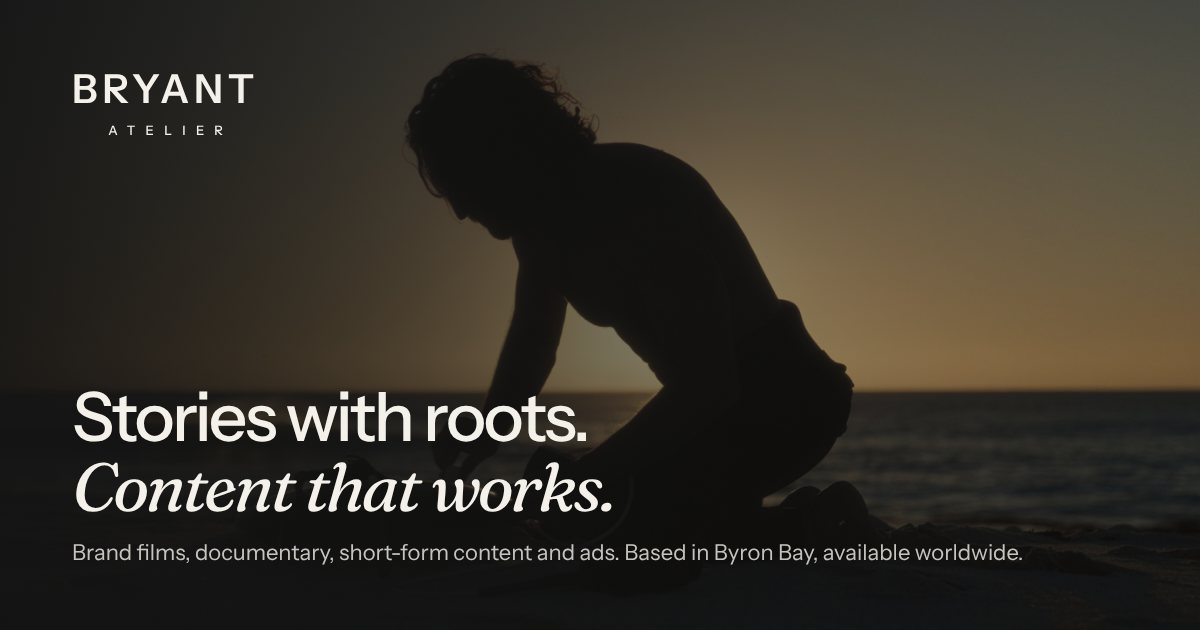
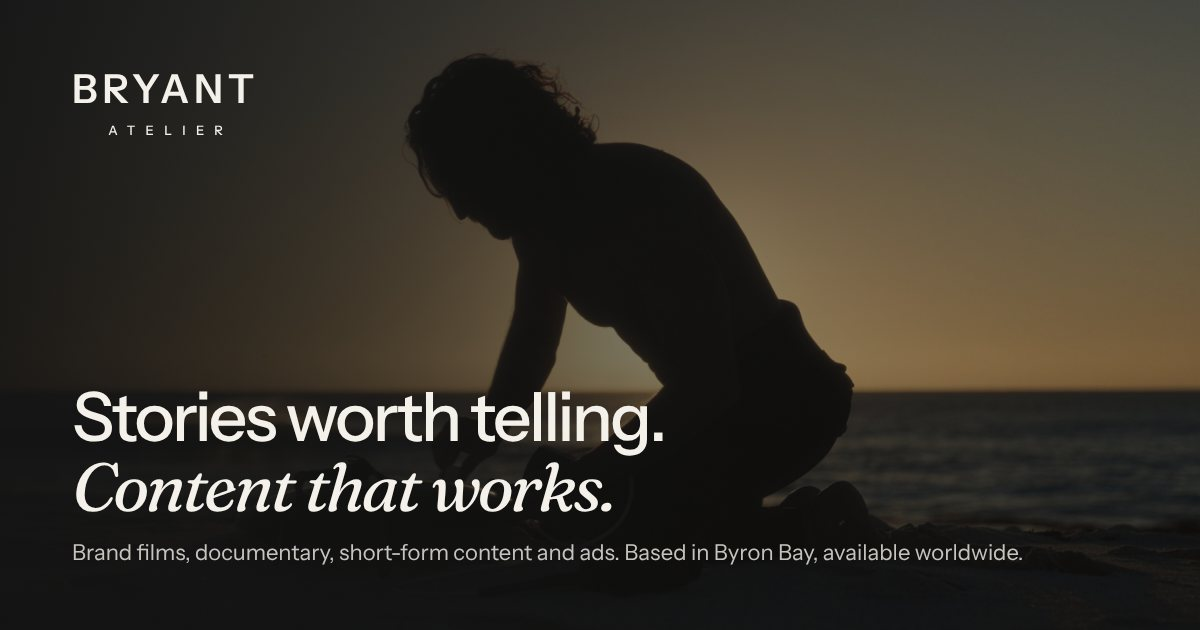
Headline: 'Stories worth telling. Content that works.'
Homepage hero, site tagline and share image. The Originals page
keeps Lineage's 'stories with roots.'

Claude-Session: https://claude.ai/code/session_01MJ6ZP2RdSNTGAAvC7WP8Ch

Changed region(s): [[0.2775, 0.6032, 0.555, 0.7238]]

diff --git a/TODO.md b/TODO.md
@@ -58,6 +58,8 @@ Everything that needs your eyes before launch. On the site, items show as a yell
 - [ ] **Free Video Plan:** now **4 parts** (added "What others in your industry do well") and **"within 2 business days"** instead of 48 hours, on every page, the form and the template.
 - [ ] **Still needed from you:** starting prices, years of experience, Google rating (if you have reviews), photos and a few lines on why you started, ABN.
 
+- [ ] **Headline** is now "Stories worth telling. Content that works." (replacing the brief's "Stories with roots."). The Originals page keeps Lineage's "stories with roots." Update your Instagram bio and any print to match.
+
 ## [CHECK] Facts and permissions
 
 - [ ] **Edited testimonials.** In Ben Handler's and Craved This's quotes, "Convert Studios" now reads **[Bryant Atelier]**. The square brackets mark it as an edit. OK with you, and with them?
